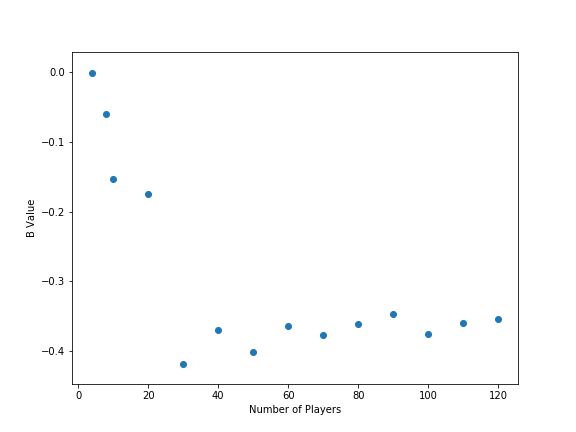
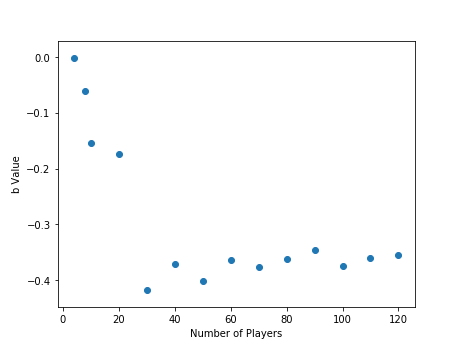
modified calculatePower.py, still not done though

diff --git a/calculatePower.py b/calculatePower.py
@@ -5,6 +5,7 @@ import numpy
 import CondorcetDriver
 import matplotlib.pyplot as plt
 import inspect
+import os
 
 
 def power(xList, yList):
@@ -139,8 +140,8 @@ def calculateExponential(thisNumPlayers, thisNumGames, thisNumPlayersPerGame, th
     equationType = 3
     printEquationToDataFile(result, fileName, equationType)
 
-def printPointsToDataFile(thisNumPlayers, thisNumGames, thisNumPlayersPerGame, thisDiscrepancy, fileName, timeLimit, targetVar):
-    pointsListx, pointsListy = readFile(fileName)
+def printPointsToDataFile(thisNumPlayers, thisNumGames, thisNumPlayersPerGame, thisDiscrepancy, importFileName, timeLimit, targetVar):
+    pointsListx, pointsListy = readFile(importFileName)
     result = power(pointsListx, pointsListy)
     if (targetVar == 0):
         X = thisNumPlayers
@@ -156,8 +157,13 @@ def printPointsToDataFile(thisNumPlayers, thisNumGames, thisNumPlayersPerGame, t
     graphData(bFileName, xStr, targetVar, thisNumPlayers, thisNumPlayersPerGame, thisDiscrepancy, "b")
     graphData(cFileName, xStr, targetVar, thisNumPlayers, thisNumPlayersPerGame, thisDiscrepancy, "c")
 
-def graphData(fileName, xStr, targetVar, thisNumPlayers, thisNumPlayersPerGame, thisDiscrepancy, graphType):
-    pointsListX, pointsListY = readFile(fileName)
+def graphData(importFileName, xStr, targetVar, thisNumPlayers, thisNumPlayersPerGame, thisDiscrepancy, graphType):
+    pointsListX, pointsListY = readFile(importFileName)
+    print(pointsListX, pointsListY)
+    powerTrendlineX, powerTrendlineY = power(pointsListX, pointsListY)
+##    linearTrendlineX, linearTrendlineY = linearRegression(pointsListX, pointsListY)
+##    logarithmicTrendlineX, logarithmicTrendlineY = logarithmic(pointsListX, pointsListY)
+##    exponentialTrendlineX, exponentialTrendlineY = exponential(pointsListX, pointsListY)
     plt.scatter(pointsListX, pointsListY)
     plt.xlabel(xStr)
     plt.ylabel(graphType + " Value")
@@ -172,9 +178,10 @@ def graphData(fileName, xStr, targetVar, thisNumPlayers, thisNumPlayersPerGame, 
         fileName = "graphPointsNumPlayersPerGame/" + directory + "/Graph_Discrepancy" + str(thisDiscrepancy) + "_NumPlayers" + str(thisNumPlayers) + ".png"
     elif (targetVar == 2):
         fileName = "graphPointsDiscrepancy/" + directory + "/Graph_NumPlayers" + str(thisNumPlayers) + "_NumPlayersPerGame" + str(thisNumPlayersPerGame) + ".png"
+    os.remove(fileName)
     plt.savefig(fileName, dpi=72)
     plt.gcf().clear()
 
-##printPointsToDataFile(4, 3, 5, 6, "DataFormat.txt", 1, 0)
+printPointsToDataFile(50, 100000, 4, 560, "dataFormat.txt", 100, 0)
     
     
